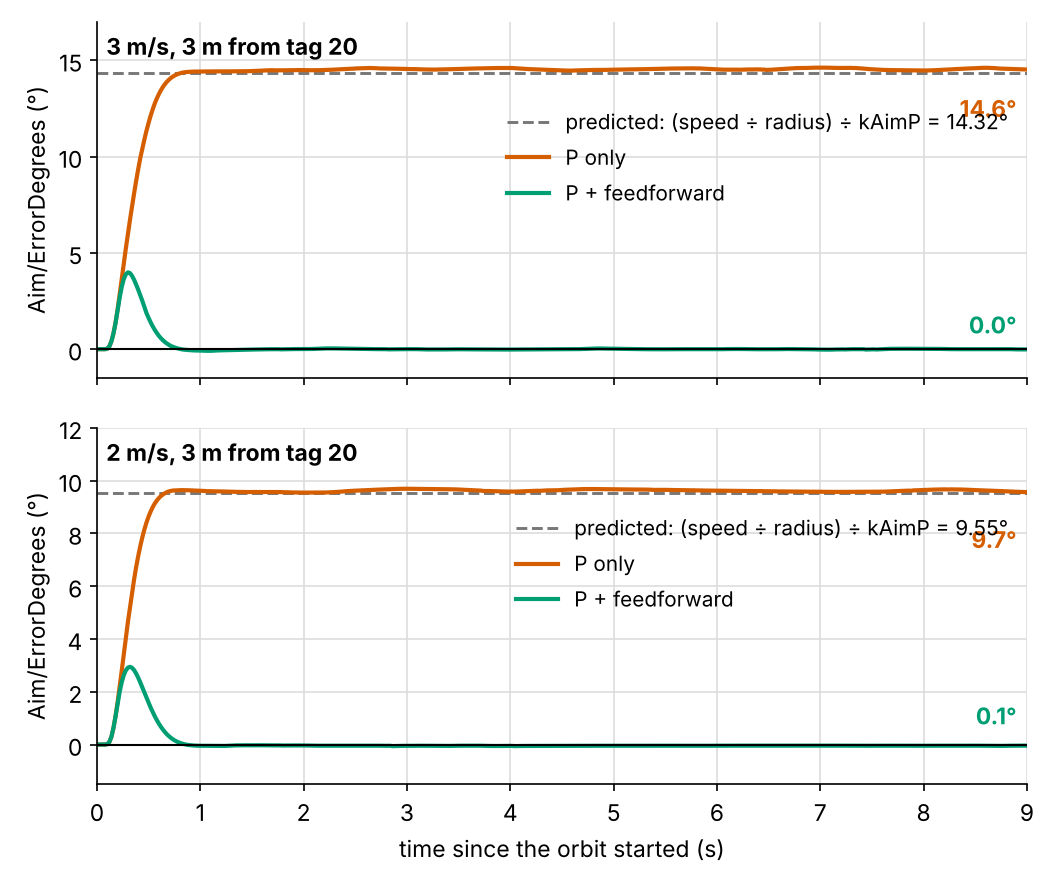
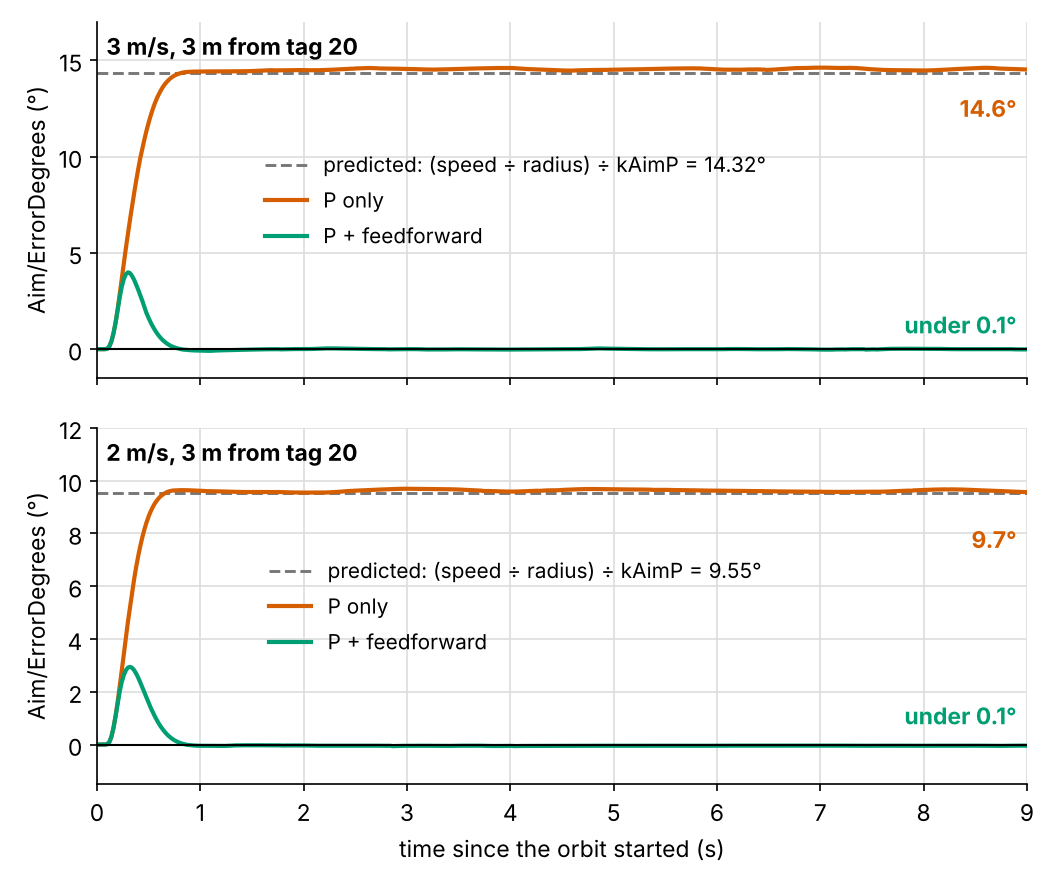
Lessons 25-29: Figures 25.1, 26.1, 27.1, 28.1, 28.2, 29.1
Batch 1 figures, with walkthroughs: the Pick Up timeline (25.1); speed
along the line for the two-stage drive against the old sketch-then-P
design (26.1); aim error on a 3 m orbit, P only against P plus
feedforward (27.1); holding 60 rot/s with and without the model (28.1);
spin-up from four idle speeds and the volts it takes (28.2); and the tired
battery under the budget and with no limits (29.1).

Text: Lesson 25 says the piece goes in at y = 4.4; Lesson 29 says the
no-limits brownout comes within half a second of enabling (this probe
gave 0.18 s, the earlier one 0.31-0.39 s).

Claude-Session: https://claude.ai/code/session_014noufzZPwt8bnk7MXpYg6T

diff --git a/tools/figures/27-orbit-aim-error.py b/tools/figures/27-orbit-aim-error.py
@@ -57,8 +57,8 @@ def main():
         sp, sf = settled(tp, ep), settled(tf, ef)
         summary[speed] = (sp, sf)
         ax.text(8.9, sp - 1.4, f"{sp:.1f}°", color=figstyle.MEASURED, ha="right", va="top", fontweight="bold")
-        ax.text(8.9, sf + 0.5, f"{sf:.1f}°", color=figstyle.ALTERNATE, ha="right", va="bottom", fontweight="bold")
-        ax.legend(loc="center right", frameon=False, bbox_to_anchor=(1.0, 0.62))
+        ax.text(8.9, sf + 0.5, "under 0.1°" if sf < 0.1 else f"{sf:.1f}°", color=figstyle.ALTERNATE, ha="right", va="bottom", fontweight="bold")
+        ax.legend(loc="center", frameon=False, bbox_to_anchor=(0.45, 0.5))
     axes[1].set_xlabel("time since the orbit started (s)")
     axes[1].set_xlim(0, 9)
     print(figstyle.save(fig, "27-orbit-aim-error"))

diff --git a/docs/lessons/v3/25-path-events.md b/docs/lessons/v3/25-path-events.md
@@ -440,7 +440,7 @@ step made sure of that — so the request isn't instant. In this course's sim th
 takes about 0.8 s to swing below horizontal, and the roller starts about 1.1 s after
 the request, because `intakeMotion` swings first and spins second. At 2 m/s, a
 second is two meters of path. Measured, the marker fires 0.6 s into the drive at
-y ≈ 6.7, the roller is running by y ≈ 4.5, and the piece goes in at y ≈ 4.37. Move
+y ≈ 6.7, the roller is running by y ≈ 4.5, and the piece goes in at y ≈ 4.4. Move
 the marker to 0.2 and the roller doesn't start until y ≈ 3.8 — by which point the
 piece is already under the bumper, and the robot drives straight over it.
 
@@ -826,17 +826,39 @@ and `FollowPath/remainingPathDistanceMeters`. (B-Line's `FollowPath/` keys are u
 LED strip, because it tells the whole story.
 
 Here's what happens in this course's sim, timed from when the drive starts, about
-4.1 s after you enable (homing, then the stow):
+4.1 s after you enable (homing, then the stow). Figure 25.1, just below the table,
+plots the same run:
 
 | When | What |
 |---|---|
 | 0.6 s, y ≈ 6.7 | The `intake` marker fires; next loop the state is `INTAKING` and the strip goes yellow |
 | 1.4 s | The arm swings below horizontal |
 | 1.7 s, y ≈ 4.5 | The roller starts |
-| 1.7 s, y ≈ 4.37 | The piece goes in; a tenth of a second later the debounced beam break makes it `HANDOFF` |
+| 1.7 s, y ≈ 4.4 | The piece goes in; a tenth of a second later the debounced beam break makes it `HANDOFF` |
 | 2.9 s, 1.0 m left | Arm tucked and elevator at 0.73 m: `HOLDING`, solid green |
 | 3.2 s, 0.48 m left | The score request: `SCORING`, the piece leaves, and the next loop is `IDLE` |
 | 3.4 s | The path finishes at (6, 1), with the elevator already on its way down |
+
+<a id="figure-25-1"></a>
+![A four-panel timeline of one Pick Up run, from the start of the drive: the robot's y falls steadily from 7.4 to about 1; below it the superstructure state runs IDLE, INTAKING, HANDOFF, HOLDING, a brief SCORING and IDLE; the arm swings from 90 degrees down to -20 and back up; the elevator rises from 0 to 0.75 m and starts back down. Dashed lines mark the intake event, the roller start, HOLDING, the score request and the end of the path](images/25-pick-up-timeline.png)
+
+*Figure 25.1 — One Pick Up run on a fresh launch, from the moment the drive starts. All four panels share the time axis. One run (three recorded for this figure agreed to within a tick).*
+
+Figure 25.1 puts the same events on a time axis, and what to look for is overlap. Read it from the top.
+The first panel is the robot's `y`, and it is the one thing the whole run hangs on. It's a straight, steady
+slope from 7.4 down to about 1, flattening only in the last 0.2 s as the path ends. The dotted
+horizontal line is where the piece goes into the intake, 0.6 m ahead of the robot's center. Nothing
+below this panel ever bends it.
+
+The strip under it is `Superstructure/State`, and the dashed vertical lines tie it to everything else. At 0.6 s the
+`intake` marker fires and the state goes to `INTAKING`. In the third panel the arm, which had been
+tucked at 90°, swings down, passes horizontal at 1.4 s and settles at −20° just
+as the roller starts at 1.7 s. The piece goes in right then, the beam break trips, and the state moves to
+`HANDOFF`, so the arm comes back up to 90° and the elevator, in the bottom panel, starts to rise. All of that
+is happening in the first panel's straight slope: the robot is still driving at full speed while the arm swings
+and the elevator climbs. `HOLDING` arrives at 2.9 s, with both mechanisms in place. The score request at 3.2 s sends
+the state to `SCORING` for a tick or two, visible as the blue sliver, then back to `IDLE`, and the elevator
+starts down while the path is still finishing at 3.4 s.
 
 The robot never slowed down. The intake ran, the arm tucked and the elevator rose
 while it drove, and the score happened on the way in. Nothing waited for anything

diff --git a/docs/lessons/v3/27-aim-at-tag.md b/docs/lessons/v3/27-aim-at-tag.md
@@ -368,6 +368,33 @@ chassis's true pose the same runs read 13.5° and 1.2°, because the estimate
 and the truth disagree by about a degree of heading. Either way, the term did
 what the arithmetic said it would.
 
+<a id="figure-27-1"></a>
+![Aim error in degrees over a 9-second orbit of tag 20, at 3 m/s above and 2 m/s below: with P only the error climbs in the first 0.7 seconds to a flat shelf just above the predicted line, 14.6 degrees and 9.7 degrees, and stays there; with feedforward it bumps to about 4 and 3 degrees in the first half second and then sits on zero](images/27-orbit-aim-error.png)
+
+*Figure 27.1 — `Aim/ErrorDegrees` for one orbit of tag 20 at 3 m, P only against P plus feedforward, at 3 m/s (top) and 2 m/s (bottom). One run of each, read from the pose estimate. Feedforward runs sometimes catch a camera correction and show a bump later in the run (one of the three 3 m/s runs recorded for this figure had a 0.3° one); these are clean runs.*
+
+Figure 27.1 shows the table as curves. Read the top panel first: the robot circles the tag at 3 m/s,
+three metres out, and the line is the aim error against time. The dashed grey line is the 14.32° from
+section 4's arithmetic, `1.0 ÷ kAimP`.
+
+Start with the orange line, P only. The robot has just started moving, the bearing starts swinging,
+and the error opens up from zero. Watch what it does next: it doesn't keep growing and it doesn't come
+back. In under a second it climbs to a shelf just above the dashed line, 14.6°, and sits there for the
+other eight seconds, about a lap and a half of the tag. That flat shelf is the picture of
+"chases from a fixed distance behind". The controller isn't failing to converge. It has converged,
+on exactly the error it needs in order to make 1.0 rad/s. The gap above the dashed line is the third of
+a degree of wheel lag from section 4.
+
+Now the green line, P plus feedforward. It has a bump of its own in the first half second, up to about
+4°: the orbit begins at full speed from a standstill, and the wheels take a moment to start the
+robot turning. Then it's back on zero by about a second and stays there. The feedforward is
+supplying the 1.0 rad/s, so the P term has almost nothing left to do, and the error it sits on
+is almost none.
+
+The bottom panel is the same pair at 2 m/s, where the dashed line is 9.55° and the shelf 9.7°. Same
+shapes, smaller numbers, because the bearing is swinging two thirds as fast. Notice that the
+orange shelf is set by the speed and the gain, and nothing else: wait longer and you'd see the same flat line, not a better one.
+
 > **The general rule, stated for the third time in this course.** If a
 > controller has to keep producing output just to stay where it is, work
 > out what that output is and supply it directly. `kG` held the elevator
